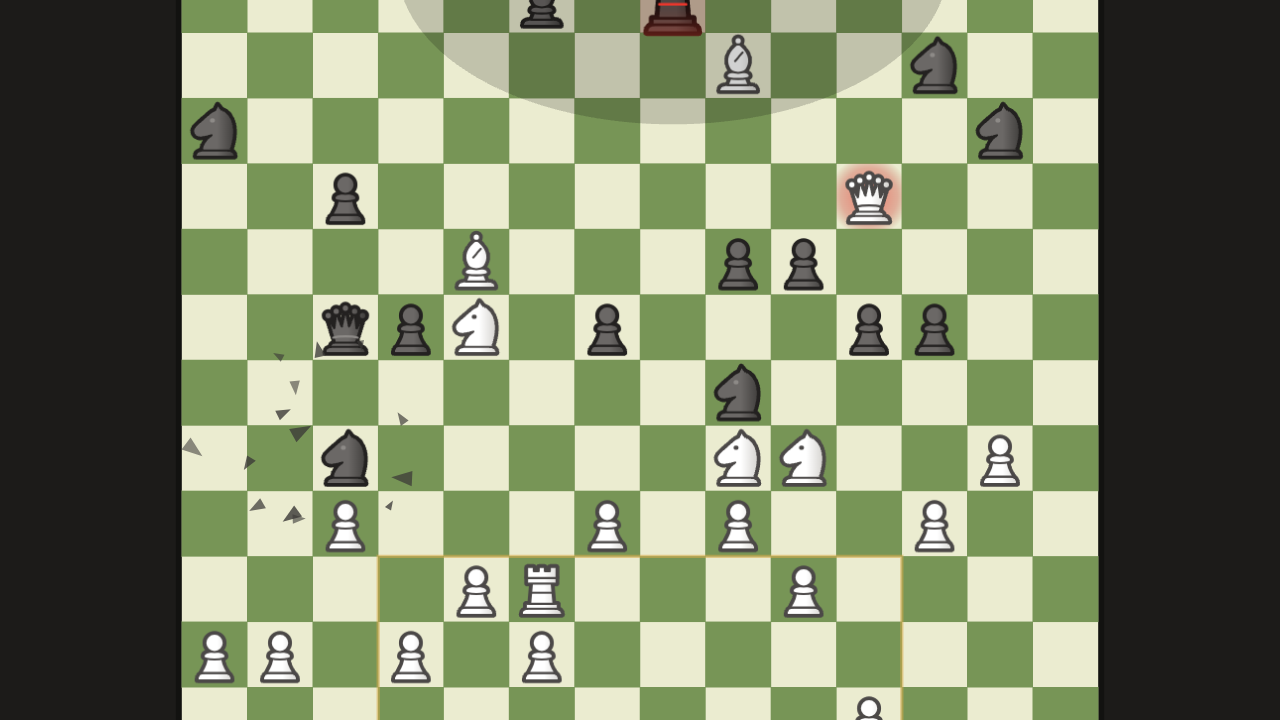
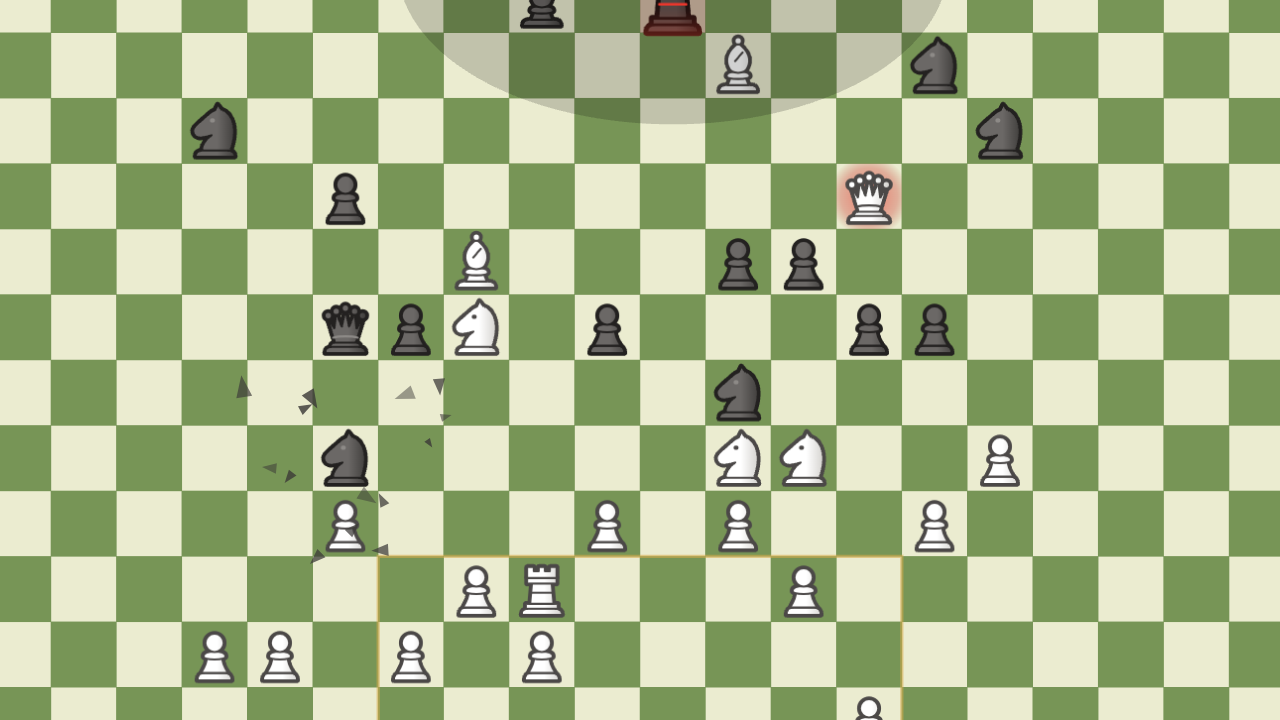
Store pictures: the board runs to every edge, no title on the cover

diff --git a/game/poster.js b/game/poster.js
@@ -48,7 +48,6 @@ export async function runPoster(name) {
   const cam = r.cam;
   const sim = new Sim({ seed: 20261030, diff: 'normal', slots: [0] });
   const frame = { mySlot: 0, solo: true, sel: new Set() };
-  let title = false;
   let split = false;
 
   if (name === 'cover') {
@@ -60,9 +59,8 @@ export async function runPoster(name) {
       if (atk) b.atk.push(atk);
     }
     cam.tcx = 7;
-    cam.tcy = 3.7;
-    cam.tscale = H / 9.4;
-    title = true;
+    cam.tcy = 3.4;
+    cam.tscale = H / 8.6;
   } else if (name === 'action') {
     // Black's turn in full swing: its army moving, pieces falling.
     play(sim, () => sim.phase === 'battle' && sim.turn >= 7 && sim.side === 'b' && sim.bt && sim.bt.moves >= 3);
@@ -101,6 +99,7 @@ export async function runPoster(name) {
   }
   const f = {
     ...frame,
+    bleed: true,
     now: 12.3,
     t,
     world: w,
@@ -111,7 +110,6 @@ export async function runPoster(name) {
   };
   for (let i = 0; i < 4; i++) r.draw({ ...f, now: 12.0 + i * 0.1 });
   const ctx = canvas.getContext('2d');
-  if (title) drawTitle(ctx, W, H);
   if (split) drawChessHalf(ctx, W, H);
   document.body.dataset.ready = '1';
 }
@@ -135,12 +133,12 @@ function drawChessHalf(ctx, W, H) {
       id++;
     });
   });
-  const board = H * 0.98 / 8;
-  r.cam.tcx = KEEP_X + 4 - (W * 0.3 - W / 2) / board;
+  const board = H / 8;
+  r.cam.tcx = KEEP_X + W / 2 / board;
   r.cam.tcy = KEEP_Y + 4;
   r.cam.tscale = board;
   r.cam.snap();
-  r.draw({ now: 1, t: 0, chessOnly: true, world: { pieces, bounds: [KEEP_X, KEEP_Y, KEEP_X + 7, KEEP_Y + 7], terr: null, boss: null }, last: [[KEEP_X + 4, KEEP_Y + 1], [KEEP_X + 4, KEEP_Y + 3]], mySlot: 0, solo: true, sel: new Set() });
+  r.draw({ now: 1, t: 0, chessOnly: true, bleed: true, world: { pieces, bounds: [KEEP_X, KEEP_Y, KEEP_X + 7, KEEP_Y + 7], terr: null, boss: null }, last: [[KEEP_X + 4, KEEP_Y + 1], [KEEP_X + 4, KEEP_Y + 3]], mySlot: 0, solo: true, sel: new Set() });
   // The tear: a jagged diagonal from top to bottom.
   ctx.save();
   ctx.beginPath();
@@ -148,7 +146,7 @@ function drawChessHalf(ctx, W, H) {
   const steps = 14;
   for (let i = 0; i <= steps; i++) {
     const y = (i / steps) * H;
-    const x = W * 0.6 - (i / steps) * W * 0.12 + (i % 2 ? 18 : -18) + Math.sin(i * 2.3) * 10;
+    const x = W * 0.53 - (i / steps) * W * 0.12 + (i % 2 ? 18 : -18) + Math.sin(i * 2.3) * 10;
     ctx.lineTo(x, y);
   }
   ctx.lineTo(0, H);
@@ -168,29 +166,10 @@ function drawChessHalf(ctx, W, H) {
   ctx.beginPath();
   for (let i = 0; i <= steps; i++) {
     const y = (i / steps) * H;
-    const x = W * 0.6 - (i / steps) * W * 0.12 + (i % 2 ? 18 : -18) + Math.sin(i * 2.3) * 10;
+    const x = W * 0.53 - (i / steps) * W * 0.12 + (i % 2 ? 18 : -18) + Math.sin(i * 2.3) * 10;
     i ? ctx.lineTo(x, y) : ctx.moveTo(x, y);
   }
   ctx.stroke();
-}
-
-function drawTitle(ctx, W, H) {
-  const band = ctx.createLinearGradient(0, H, 0, H * 0.62);
-  band.addColorStop(0, 'rgba(20,18,16,0.94)');
-  band.addColorStop(0.6, 'rgba(20,18,16,0.6)');
-  band.addColorStop(1, 'rgba(20,18,16,0)');
-  ctx.fillStyle = band;
-  ctx.fillRect(0, H * 0.62, W, H * 0.38);
-  const size = Math.round(W * 0.066);
-  ctx.font = `900 ${size}px Figtree, sans-serif`;
-  ctx.textAlign = 'center';
-  ctx.textBaseline = 'middle';
-  ctx.lineJoin = 'round';
-  ctx.lineWidth = size * 0.16;
-  ctx.strokeStyle = 'rgba(0,0,0,0.85)';
-  ctx.strokeText('Just a Normal Chess Game', W / 2, H * 0.87);
-  ctx.fillStyle = '#ffffff';
-  ctx.fillText('Just a Normal Chess Game', W / 2, H * 0.87);
 }
 
 function disc(ctx, W, H, inner, outer) {

diff --git a/game/render.js b/game/render.js
@@ -359,7 +359,7 @@ export function createRenderer(canvas, fx) {
       b = [0, 1, 2, 3].map((i) => Math.round(lerp(keepRect[i], FULL[i], grow)));
     }
 
-    if (!f.chessOnly) {
+    if (!f.chessOnly && !f.bleed) {
       // The battlefield's edge: a soft shadow under the board.
       const [gx0, gy0] = cam.toScreen(b[0], b[1]);
       const [gx1, gy1] = cam.toScreen(b[2] + 1, b[3] + 1);
@@ -368,12 +368,14 @@ export function createRenderer(canvas, fx) {
     }
 
     // Squares.
-    const bx0 = Math.max(vx0, b[0]);
-    const by0 = Math.max(vy0, b[1]);
-    const bx1 = Math.min(vx1, b[2]);
-    const by1 = Math.min(vy1, b[3]);
-    const [ox, oy] = cam.toScreen(b[0], b[1]);
-    const [ex, ey] = cam.toScreen(b[2] + 1, b[3] + 1);
+    // A store picture's board runs past the picture's edges.
+    const sb = f.bleed ? [Math.floor(wx0) - 1, Math.floor(wy0) - 1, Math.ceil(wx1) + 1, Math.ceil(wy1) + 1] : b;
+    const bx0 = f.bleed ? sb[0] : Math.max(vx0, b[0]);
+    const by0 = f.bleed ? sb[1] : Math.max(vy0, b[1]);
+    const bx1 = f.bleed ? sb[2] : Math.min(vx1, b[2]);
+    const by1 = f.bleed ? sb[3] : Math.min(vy1, b[3]);
+    const [ox, oy] = cam.toScreen(sb[0], sb[1]);
+    const [ex, ey] = cam.toScreen(sb[2] + 1, sb[3] + 1);
     ctx.fillStyle = COLORS.light;
     ctx.fillRect(ox, oy, ex - ox, ey - oy);
     ctx.fillStyle = COLORS.dark;
